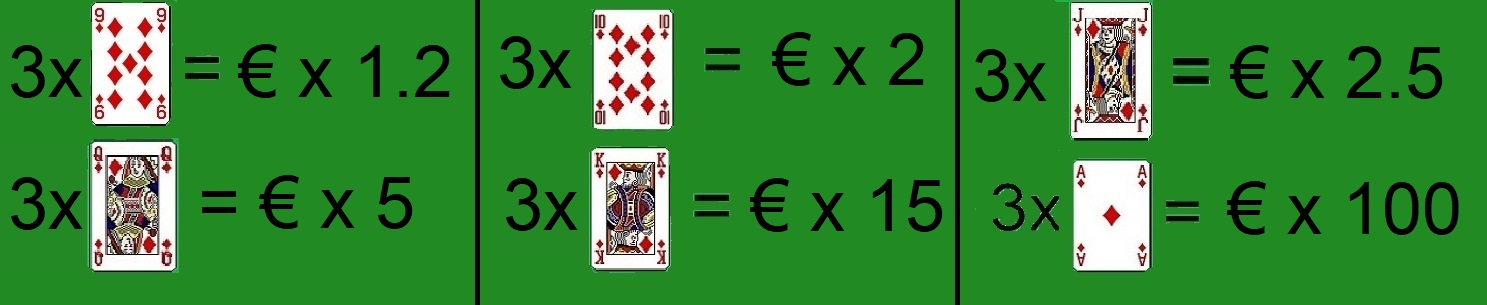
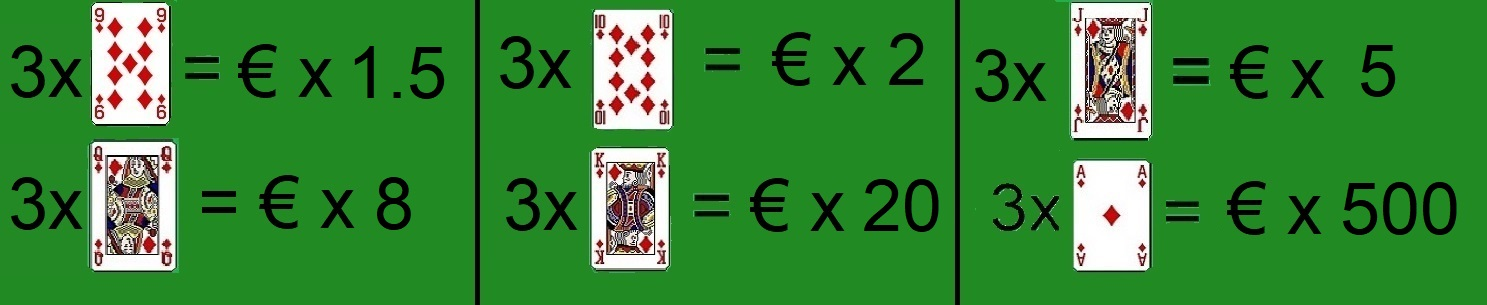
its a wrap

diff --git a/Labb3 - Enarmad Bandit/gameboard.xaml b/Labb3 - Enarmad Bandit/gameboard.xaml
@@ -9,7 +9,7 @@
     <Border Padding="10">
         <StackPanel Width="580">
             <Grid>
-                <Image Source="C:\Users\MiniTomato\Source\Repos\Enarmad-Bandit\Enarmad Bandit\3xCard.jpg" Margin="0 10" Width="550"/>
+                <Image Source="3xCard.jpg" Margin="0 10" Width="550"/>
             </Grid>
             <Grid>
                 <Grid.ColumnDefinitions>
@@ -36,35 +36,35 @@
                 </Grid.ColumnDefinitions>
                 <StackPanel Grid.Column="0" >
                     <Border x:Name="bo00" >
-                        <Image x:Name="sq00"  Source="C:\Users\MiniTomato\Source\Repos\Enarmad-Bandit\Enarmad Bandit\Flippedcard.jpg"  Height="100" Width="80"/>
+                        <Image x:Name="sq00" Source="Flippedcard.jpg"  Height="100" Width="80"/>
                     </Border>
                     <Border x:Name="bo01" >
-                        <Image x:Name="sq01" Source="C:\Users\MiniTomato\Source\Repos\Enarmad-Bandit\Enarmad Bandit\Flippedcard.jpg" Height="100" Width="80"/>
+                        <Image x:Name="sq01" Source="Flippedcard.jpg" Height="100" Width="80"/>
                     </Border>
                     <Border x:Name="bo02" >
-                        <Image x:Name="sq02" Source="C:\Users\MiniTomato\Source\Repos\Enarmad-Bandit\Enarmad Bandit\Flippedcard.jpg" Height="100" Width="80"/>
+                        <Image x:Name="sq02" Source="Flippedcard.jpg" Height="100" Width="80"/>
                     </Border>
                 </StackPanel>
                 <StackPanel Grid.Column="1">
                     <Border x:Name="bo10" >
-                        <Image x:Name="sq10" Source="C:\Users\MiniTomato\Source\Repos\Enarmad-Bandit\Enarmad Bandit\Flippedcard.jpg" Height="100" Width="80"/>
+                        <Image x:Name="sq10" Source="Flippedcard.jpg" Height="100" Width="80"/>
                     </Border>
                     <Border x:Name="bo11" >
-                        <Image x:Name="sq11" Source="C:\Users\MiniTomato\Source\Repos\Enarmad-Bandit\Enarmad Bandit\Flippedcard.jpg" Height="100" Width="80"/>
+                        <Image x:Name="sq11" Source="Flippedcard.jpg" Height="100" Width="80"/>
                     </Border>
                     <Border x:Name="bo12" >
-                        <Image x:Name="sq12" Source="C:\Users\MiniTomato\Source\Repos\Enarmad-Bandit\Enarmad Bandit\Flippedcard.jpg" Height="100" Width="80"/>
+                        <Image x:Name="sq12" Source="Flippedcard.jpg" Height="100" Width="80"/>
                     </Border>
                 </StackPanel>
                 <StackPanel Grid.Column="2">
                     <Border x:Name="bo20" >
-                        <Image x:Name="sq20" Source="C:\Users\MiniTomato\Source\Repos\Enarmad-Bandit\Enarmad Bandit\Flippedcard.jpg" Height="100" Width="80" />
+                        <Image x:Name="sq20" Source="Flippedcard.jpg" Height="100" Width="80" />
                     </Border>
                     <Border x:Name="bo21" >
-                        <Image x:Name="sq21" Source="C:\Users\MiniTomato\Source\Repos\Enarmad-Bandit\Enarmad Bandit\Flippedcard.jpg" Height="100" Width="80" />
+                        <Image x:Name="sq21" Source="Flippedcard.jpg" Height="100" Width="80" />
                     </Border>
                     <Border x:Name="bo22" >
-                        <Image x:Name="sq22" Source="C:\Users\MiniTomato\Source\Repos\Enarmad-Bandit\Enarmad Bandit\Flippedcard.jpg" Height="100" Width="80"/>
+                        <Image x:Name="sq22" Source="Flippedcard.jpg" Height="100" Width="80"/>
                     </Border>
                 </StackPanel>
             </Grid>

diff --git a/Labb3 - Enarmad Bandit/MainWindow.xaml b/Labb3 - Enarmad Bandit/MainWindow.xaml
@@ -27,9 +27,9 @@
                     <Button Content="Play!" Click="Button_Click" Margin=" 0 20"/>
                 </StackPanel>
                 <StackPanel Grid.Column="0" Width="100" VerticalAlignment="Center">
-                    <Image Source="C:\Users\MiniTomato\Source\Repos\Enarmad-Bandit\Enarmad Bandit\lodrätt.jpg" Height="65"/>
-                    <Image Source="C:\Users\MiniTomato\Source\Repos\Enarmad-Bandit\Enarmad Bandit\vågrätt.jpg" Height="65" Margin=" 0 5"/>
-                    <Image Source="C:\Users\MiniTomato\Source\Repos\Enarmad-Bandit\Enarmad Bandit\diagonalt.jpg" Height="65" />
+                    <Image Source="lodrätt.jpg" Height="65"/>
+                    <Image Source="vågrätt.jpg" Height="65" Margin=" 0 5"/>
+                    <Image Source="diagonalt.jpg" Height="65" />
                 </StackPanel>
             </Grid>
         </StackPanel>

diff --git a/Labb3 - Enarmad Bandit/gameboard.xaml.cs b/Labb3 - Enarmad Bandit/gameboard.xaml.cs
@@ -15,7 +15,7 @@ namespace Enarmad_Bandit
         //instances
         Person player = new Person();
         Wallet wallet = new Wallet();
-        GameBoard[,] GameBoardValues = new GameBoard[3, 3];
+        GameBoardSetup[,] GameBoardValues = new GameBoardSetup[3, 3];
 
         public Gameboard()
         {
@@ -57,22 +57,22 @@ namespace Enarmad_Bandit
                 txtBank.Text = (wallet.Balance).ToString("0.00");
 
                 //change image - first row
-                GameBoard.ChangeSlotImage(sq00, GameBoard.SetSlotCard(GameBoard.GetSlotFigure(), GameBoardValues[0, 0]));
-                GameBoard.ChangeSlotImage(sq10, GameBoard.SetSlotCard(GameBoard.GetSlotFigure(), GameBoardValues[1, 0]));
-                GameBoard.ChangeSlotImage(sq20, GameBoard.SetSlotCard(GameBoard.GetSlotFigure(), GameBoardValues[2, 0]));
+                GameBoardSetup.ChangeSlotImage(sq00, GameBoardSetup.SetSlotCard(GameBoardSetup.GetSlotFigure(), GameBoardValues[0, 0]));
+                GameBoardSetup.ChangeSlotImage(sq10, GameBoardSetup.SetSlotCard(GameBoardSetup.GetSlotFigure(), GameBoardValues[1, 0]));
+                GameBoardSetup.ChangeSlotImage(sq20, GameBoardSetup.SetSlotCard(GameBoardSetup.GetSlotFigure(), GameBoardValues[2, 0]));
                 //change image - second row
-                GameBoard.ChangeSlotImage(sq01, GameBoard.SetSlotCard(GameBoard.GetSlotFigure(), GameBoardValues[0, 1]));
-                GameBoard.ChangeSlotImage(sq11, GameBoard.SetSlotCard(GameBoard.GetSlotFigure(), GameBoardValues[1, 1]));
-                GameBoard.ChangeSlotImage(sq21, GameBoard.SetSlotCard(GameBoard.GetSlotFigure(), GameBoardValues[2, 1]));
+                GameBoardSetup.ChangeSlotImage(sq01, GameBoardSetup.SetSlotCard(GameBoardSetup.GetSlotFigure(), GameBoardValues[0, 1]));
+                GameBoardSetup.ChangeSlotImage(sq11, GameBoardSetup.SetSlotCard(GameBoardSetup.GetSlotFigure(), GameBoardValues[1, 1]));
+                GameBoardSetup.ChangeSlotImage(sq21, GameBoardSetup.SetSlotCard(GameBoardSetup.GetSlotFigure(), GameBoardValues[2, 1]));
                 //change image - third row
-                GameBoard.ChangeSlotImage(sq02, GameBoard.SetSlotCard(GameBoard.GetSlotFigure(), GameBoardValues[0, 2]));
-                GameBoard.ChangeSlotImage(sq12, GameBoard.SetSlotCard(GameBoard.GetSlotFigure(), GameBoardValues[1, 2]));
-                GameBoard.ChangeSlotImage(sq22, GameBoard.SetSlotCard(GameBoard.GetSlotFigure(), GameBoardValues[2, 2]));
+                GameBoardSetup.ChangeSlotImage(sq02, GameBoardSetup.SetSlotCard(GameBoardSetup.GetSlotFigure(), GameBoardValues[0, 2]));
+                GameBoardSetup.ChangeSlotImage(sq12, GameBoardSetup.SetSlotCard(GameBoardSetup.GetSlotFigure(), GameBoardValues[1, 2]));
+                GameBoardSetup.ChangeSlotImage(sq22, GameBoardSetup.SetSlotCard(GameBoardSetup.GetSlotFigure(), GameBoardValues[2, 2]));
 
                 //Check for winning results
                 if (GameBoardValues[0, 0].SlotType == GameBoardValues[1, 0].SlotType && GameBoardValues[1, 0].SlotType == GameBoardValues[2, 0].SlotType)
                 {
-                    winning += GameBoard.CalculateWin(GameBoardValues[1, 0].WinValue, credit);
+                    winning += GameBoardSetup.CalculateWin(GameBoardValues[1, 0].WinValue, credit);
                     bo00.Background = Brushes.Red;
                     bo10.Background = Brushes.Red;
                     bo20.Background = Brushes.Red;
@@ -80,7 +80,7 @@ namespace Enarmad_Bandit
                 }
                 if (GameBoardValues[0, 1].SlotType == GameBoardValues[1, 1].SlotType && GameBoardValues[1, 1].SlotType == GameBoardValues[2, 1].SlotType)
                 {
-                    winning += GameBoard.CalculateWin(GameBoardValues[1, 1].WinValue, credit);
+                    winning += GameBoardSetup.CalculateWin(GameBoardValues[1, 1].WinValue, credit);
                     bo01.Background = Brushes.Red;
                     bo11.Background = Brushes.Red;
                     bo21.Background = Brushes.Red;
@@ -88,7 +88,7 @@ namespace Enarmad_Bandit
                 }
                 if (GameBoardValues[0, 2].SlotType == GameBoardValues[1, 2].SlotType && GameBoardValues[1, 2].SlotType == GameBoardValues[2, 2].SlotType)
                 {
-                    winning += GameBoard.CalculateWin(GameBoardValues[1, 2].WinValue, credit);
+                    winning += GameBoardSetup.CalculateWin(GameBoardValues[1, 2].WinValue, credit);
                     bo02.Background = Brushes.Red;
                     bo12.Background = Brushes.Red;
                     bo22.Background = Brushes.Red;
@@ -96,7 +96,7 @@ namespace Enarmad_Bandit
                 }
                 if (GameBoardValues[0, 0].SlotType == GameBoardValues[0, 1].SlotType && GameBoardValues[0, 1].SlotType == GameBoardValues[0, 2].SlotType)
                 {
-                    winning += GameBoard.CalculateWin(GameBoardValues[0, 1].WinValue, credit);
+                    winning += GameBoardSetup.CalculateWin(GameBoardValues[0, 1].WinValue, credit);
                     bo00.Background = Brushes.Red;
                     bo01.Background = Brushes.Red;
                     bo02.Background = Brushes.Red;
@@ -104,7 +104,7 @@ namespace Enarmad_Bandit
                 }
                 if (GameBoardValues[1, 0].SlotType == GameBoardValues[1, 1].SlotType && GameBoardValues[1, 1].SlotType == GameBoardValues[1, 2].SlotType)
                 {
-                    winning += GameBoard.CalculateWin(GameBoardValues[1, 1].WinValue, credit);
+                    winning += GameBoardSetup.CalculateWin(GameBoardValues[1, 1].WinValue, credit);
                     bo10.Background = Brushes.Red;
                     bo11.Background = Brushes.Red;
                     bo12.Background = Brushes.Red;
@@ -112,7 +112,7 @@ namespace Enarmad_Bandit
                 }
                 if (GameBoardValues[2, 0].SlotType == GameBoardValues[2, 1].SlotType && GameBoardValues[2, 1].SlotType == GameBoardValues[2, 2].SlotType)
                 {
-                    winning += GameBoard.CalculateWin(GameBoardValues[2, 1].WinValue, credit);
+                    winning += GameBoardSetup.CalculateWin(GameBoardValues[2, 1].WinValue, credit);
                     bo20.Background = Brushes.Red;
                     bo21.Background = Brushes.Red;
                     bo22.Background = Brushes.Red;
@@ -120,7 +120,7 @@ namespace Enarmad_Bandit
                 }
                 if (GameBoardValues[0, 0].SlotType == GameBoardValues[1, 1].SlotType && GameBoardValues[1, 1].SlotType == GameBoardValues[2, 2].SlotType)
                 {
-                    winning += GameBoard.CalculateWin(GameBoardValues[1, 1].WinValue, credit);
+                    winning += GameBoardSetup.CalculateWin(GameBoardValues[1, 1].WinValue, credit);
                     bo00.Background = Brushes.Red;
                     bo11.Background = Brushes.Red;
                     bo22.Background = Brushes.Red;
@@ -128,7 +128,7 @@ namespace Enarmad_Bandit
                 }
                 if (GameBoardValues[0, 2].SlotType == GameBoardValues[1, 1].SlotType && GameBoardValues[1, 1].SlotType == GameBoardValues[2, 0].SlotType)
                 {
-                    winning += GameBoard.CalculateWin(GameBoardValues[1, 1].WinValue, credit);
+                    winning += GameBoardSetup.CalculateWin(GameBoardValues[1, 1].WinValue, credit);
                     bo02.Background = Brushes.Red;
                     bo11.Background = Brushes.Red;
                     bo20.Background = Brushes.Red;
@@ -154,7 +154,7 @@ namespace Enarmad_Bandit
             {
                 for (int j = 0; j < 3; j++)
                 {
-                    GameBoardValues[i, j] = new GameBoard();
+                    GameBoardValues[i, j] = new GameBoardSetup();
                 }
             }
         }

diff --git a/Labb3 - Enarmad Bandit/MainWindow.xaml.cs b/Labb3 - Enarmad Bandit/MainWindow.xaml.cs
@@ -1,28 +1,40 @@
-using System;
-using System.Collections.Generic;
-using System.Linq;
-using System.Text;
-using System.Threading.Tasks;
-using System.Windows;
-using System.Windows.Controls;
-using System.Windows.Data;
-using System.Windows.Documents;
-using System.Windows.Input;
-using System.Windows.Media;
-using System.Windows.Media.Imaging;
-using System.Windows.Navigation;
-using System.Windows.Shapes;
+using System.Windows;
 
-namespace Labb3___Enarmad_Bandit
+namespace Enarmad_Bandit
 {
     /// <summary>
     /// Interaction logic for MainWindow.xaml
     /// </summary>
     public partial class MainWindow : Window
     {
+        private static string name1;
+        private static string country;
+        private static string securitynr;
+        private static string tele;
+
+        public static string Name1 { get => name1; }
+        public static string Country { get => country; }
+        public static string Securitynr { get => securitynr; }
+        public static string Tele { get => tele; }
+
         public MainWindow()
         {
             InitializeComponent();
         }
+
+        private void Button_Click(object sender, RoutedEventArgs e)
+        {
+            name1 = txtName.Text;
+            country = txtCountry.Text;
+            securitynr = txtSecurityNr.Text;
+            tele = txtTele.Text;
+
+
+            new Gameboard().Show();
+            this.Close();
+
+        }
     }
 }
+
+

diff --git a/Labb3 - Enarmad Bandit/GameboardSetup.cs b/Labb3 - Enarmad Bandit/GameboardSetup.cs
@@ -62,7 +62,7 @@ namespace Enarmad_Bandit
             {
                 element.winValue = 1.5;
                 element.slotType = "Nine";
-                return "C:/Users/MiniTomato/Source/Repos/Enarmad-Bandit/Enarmad Bandit/Nine.jpg";
+                return "Enarmad Bandit/Nine.jpg";
             }
             return "error wrong value to set slotcard";
         }
